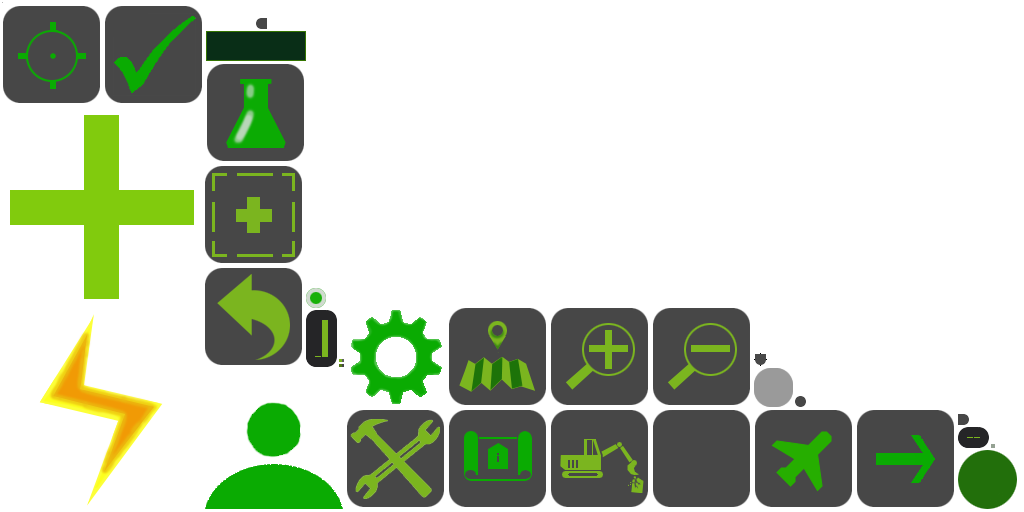
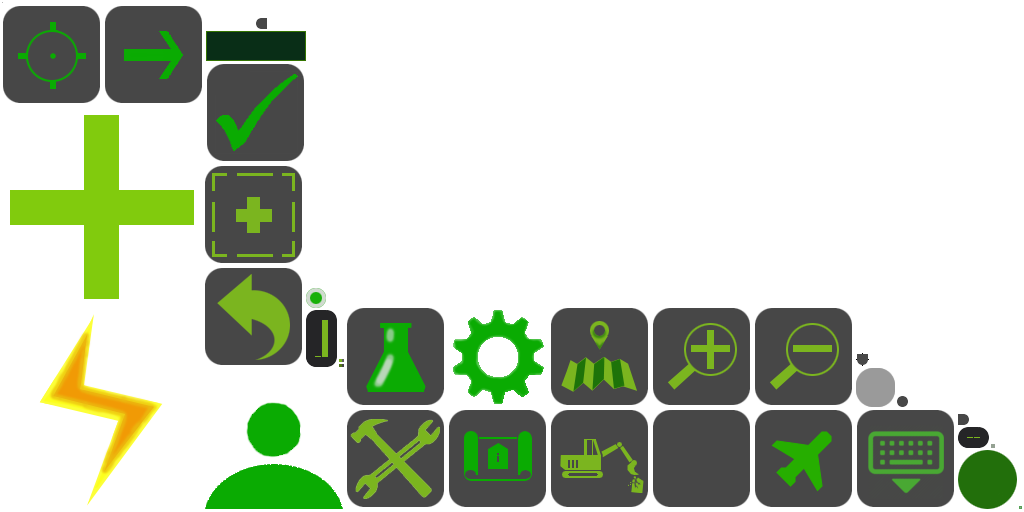
"Hide keyboard" button on some screens

diff --git a/core/src/geobattle/geobattle/screens/loginscreen/LoginScreenGUI.java b/core/src/geobattle/geobattle/screens/loginscreen/LoginScreenGUI.java
@@ -11,6 +11,7 @@ import com.badlogic.gdx.scenes.scene2d.utils.ChangeListener;
 import com.badlogic.gdx.scenes.scene2d.utils.TextureRegionDrawable;
 import com.badlogic.gdx.utils.Align;
 import com.kotcrab.vis.ui.widget.VisImage;
+import com.kotcrab.vis.ui.widget.VisImageButton;
 import com.kotcrab.vis.ui.widget.VisLabel;
 import com.kotcrab.vis.ui.widget.VisSlider;
 import com.kotcrab.vis.ui.widget.VisTable;
@@ -65,6 +66,9 @@ final class LoginScreenGUI {
 
     // Blue component of picked color
     public final VisSlider pickColorB;
+
+    // Table with button which hides keyboard
+    public final VisTable hideKeyboard;
 
     public LoginScreenGUI(AssetManager assetManager, final LoginScreen screen, final Stage guiStage) {
         skin = assetManager.get(GeoBattleAssets.GUI_SKIN);
@@ -123,6 +127,9 @@ final class LoginScreenGUI {
         ((ChangeListener) updateColor).changed(null, null);
         guiStage.addActor(pickColorScreen);
 
+        hideKeyboard = new VisTable();
+        guiStage.addActor(hideKeyboard);
+
         reset(screen);
     }
 
@@ -132,6 +139,7 @@ final class LoginScreenGUI {
         initLoginScreen(screen);
         initRegisterScreen(screen);
         initPickColorScreen(screen);
+        initHideKeyboard();
         setMode(LoginScreenMode.LOGIN);
     }
 
@@ -219,7 +227,7 @@ final class LoginScreenGUI {
                 .pad(5);
 
         loginScreen.add(root);
-        loginScreen.center().pad(20).top().padTop(20);
+        loginScreen.center().pad(20).top().padTop(40 + Gdx.graphics.getPpcY() * 0.9f);
     }
 
     // Initializes register form
@@ -286,7 +294,7 @@ final class LoginScreenGUI {
                 .pad(5);
 
         registerScreen.add(root);
-        registerScreen.center().pad(20).top().padTop(20);
+        registerScreen.center().pad(20).top().padTop(40 + Gdx.graphics.getPpcY() * 0.9f);
     }
 
     private void initPickColorScreen(LoginScreen screen) {
@@ -340,7 +348,26 @@ final class LoginScreenGUI {
                 .pad(5);
 
         pickColorScreen.add(root);
-        pickColorScreen.center().pad(20).top().padTop(20);
+        pickColorScreen.center().pad(20).top().padTop(40 + Gdx.graphics.getPpcY() * 0.9f);
+    }
+
+    // Initializes hide keyboard button
+    private void initHideKeyboard() {
+        hideKeyboard.clear();
+        hideKeyboard.setFillParent(true);
+
+        VisImageButton hide = new VisImageButton("buttonHideKeyboard");
+        hide.addListener(new ChangeListener() {
+            @Override
+            public void changed(ChangeEvent event, Actor actor) {
+                Gdx.input.setOnscreenKeyboardVisible(false);
+            }
+        });
+        hideKeyboard.add(hide)
+                .width(Gdx.graphics.getPpcY() * 0.9f)
+                .height(Gdx.graphics.getPpcY() * 0.9f);
+
+        hideKeyboard.top().padTop(20).right().padRight(20);
     }
 
     // Sets mode of GUI

diff --git a/core/src/geobattle/geobattle/screens/emailconfirmationscreen/EmailConfirmationScreenGUI.java b/core/src/geobattle/geobattle/screens/emailconfirmationscreen/EmailConfirmationScreenGUI.java
@@ -7,6 +7,7 @@ import com.badlogic.gdx.scenes.scene2d.Stage;
 import com.badlogic.gdx.scenes.scene2d.ui.Skin;
 import com.badlogic.gdx.scenes.scene2d.utils.ChangeListener;
 import com.badlogic.gdx.utils.Align;
+import com.kotcrab.vis.ui.widget.VisImageButton;
 import com.kotcrab.vis.ui.widget.VisLabel;
 import com.kotcrab.vis.ui.widget.VisTable;
 import com.kotcrab.vis.ui.widget.VisTextButton;
@@ -24,6 +25,9 @@ public final class EmailConfirmationScreenGUI {
     public final VisTextField playerNameField;
 
     public final VisTextField codeField;
+
+    // Table with button which hides keyboard
+    public final VisTable hideKeyboard;
 
     public EmailConfirmationScreenGUI(AssetManager assetManager, final EmailConfirmationScreen screen, final Stage guiStage, String name) {
         skin = assetManager.get(GeoBattleAssets.GUI_SKIN);
@@ -45,11 +49,15 @@ public final class EmailConfirmationScreenGUI {
         });
         guiStage.addActor(emailConfirmation);
 
+        hideKeyboard = new VisTable();
+        guiStage.addActor(hideKeyboard);
+
         reset(screen);
     }
 
     public void reset(EmailConfirmationScreen screen) {
         initEmailConfirmation(screen);
+        initHideKeyboard();
     }
 
     private void initEmailConfirmation(final EmailConfirmationScreen screen) {
@@ -104,6 +112,25 @@ public final class EmailConfirmationScreenGUI {
         root.row();
 
         emailConfirmation.add(root);
-        emailConfirmation.center().pad(20).top().padTop(20);
+        emailConfirmation.center().pad(20).top().padTop(40 + Gdx.graphics.getPpcY() * 0.9f);
+    }
+
+    // Initializes hide keyboard button
+    private void initHideKeyboard() {
+        hideKeyboard.clear();
+        hideKeyboard.setFillParent(true);
+
+        VisImageButton hide = new VisImageButton("buttonHideKeyboard");
+        hide.addListener(new ChangeListener() {
+            @Override
+            public void changed(ChangeEvent event, Actor actor) {
+                Gdx.input.setOnscreenKeyboardVisible(false);
+            }
+        });
+        hideKeyboard.add(hide)
+                .width(Gdx.graphics.getPpcY() * 0.9f)
+                .height(Gdx.graphics.getPpcY() * 0.9f);
+
+        hideKeyboard.top().padTop(20).right().padRight(20);
     }
 }

diff --git a/core/src/geobattle/geobattle/screens/settingsscreen/SettingsScreenGUI.java b/core/src/geobattle/geobattle/screens/settingsscreen/SettingsScreenGUI.java
@@ -8,6 +8,7 @@ import com.badlogic.gdx.scenes.scene2d.ui.Skin;
 import com.badlogic.gdx.scenes.scene2d.ui.TextButton;
 import com.badlogic.gdx.scenes.scene2d.utils.ChangeListener;
 import com.badlogic.gdx.utils.Align;
+import com.kotcrab.vis.ui.widget.VisImageButton;
 import com.kotcrab.vis.ui.widget.VisLabel;
 import com.kotcrab.vis.ui.widget.VisSlider;
 import com.kotcrab.vis.ui.widget.VisTable;
@@ -29,6 +30,9 @@ public final class SettingsScreenGUI {
 
     public final VisTextField port;
 
+    // Table with button which hides keyboard
+    public final VisTable hideKeyboard;
+
     // OS API
     private OSAPI oSAPI;
 
@@ -47,11 +51,15 @@ public final class SettingsScreenGUI {
         port.setMessageText(screen.getI18NBundle().get("port"));
         guiStage.addActor(settings);
 
+        hideKeyboard = new VisTable();
+        guiStage.addActor(hideKeyboard);
+
         reset(screen);
     }
 
     public void reset(SettingsScreen screen) {
         initSettings(screen);
+        initHideKeyboard();
     }
 
     private void initSettings(final SettingsScreen screen) {
@@ -113,7 +121,26 @@ public final class SettingsScreenGUI {
                 .pad(5);
 
         settings.add(root);
-        settings.center().pad(20).top().padTop(20);
+        settings.center().pad(20).top().padTop(40 + Gdx.graphics.getPpcY() * 0.9f);
+    }
+
+    // Initializes hide keyboard button
+    private void initHideKeyboard() {
+        hideKeyboard.clear();
+        hideKeyboard.setFillParent(true);
+
+        VisImageButton hide = new VisImageButton("buttonHideKeyboard");
+        hide.addListener(new ChangeListener() {
+            @Override
+            public void changed(ChangeEvent event, Actor actor) {
+                Gdx.input.setOnscreenKeyboardVisible(false);
+            }
+        });
+        hideKeyboard.add(hide)
+                .width(Gdx.graphics.getPpcY() * 0.9f)
+                .height(Gdx.graphics.getPpcY() * 0.9f);
+
+        hideKeyboard.top().padTop(20).right().padRight(20);
     }
 
     private boolean saveSettings() {
